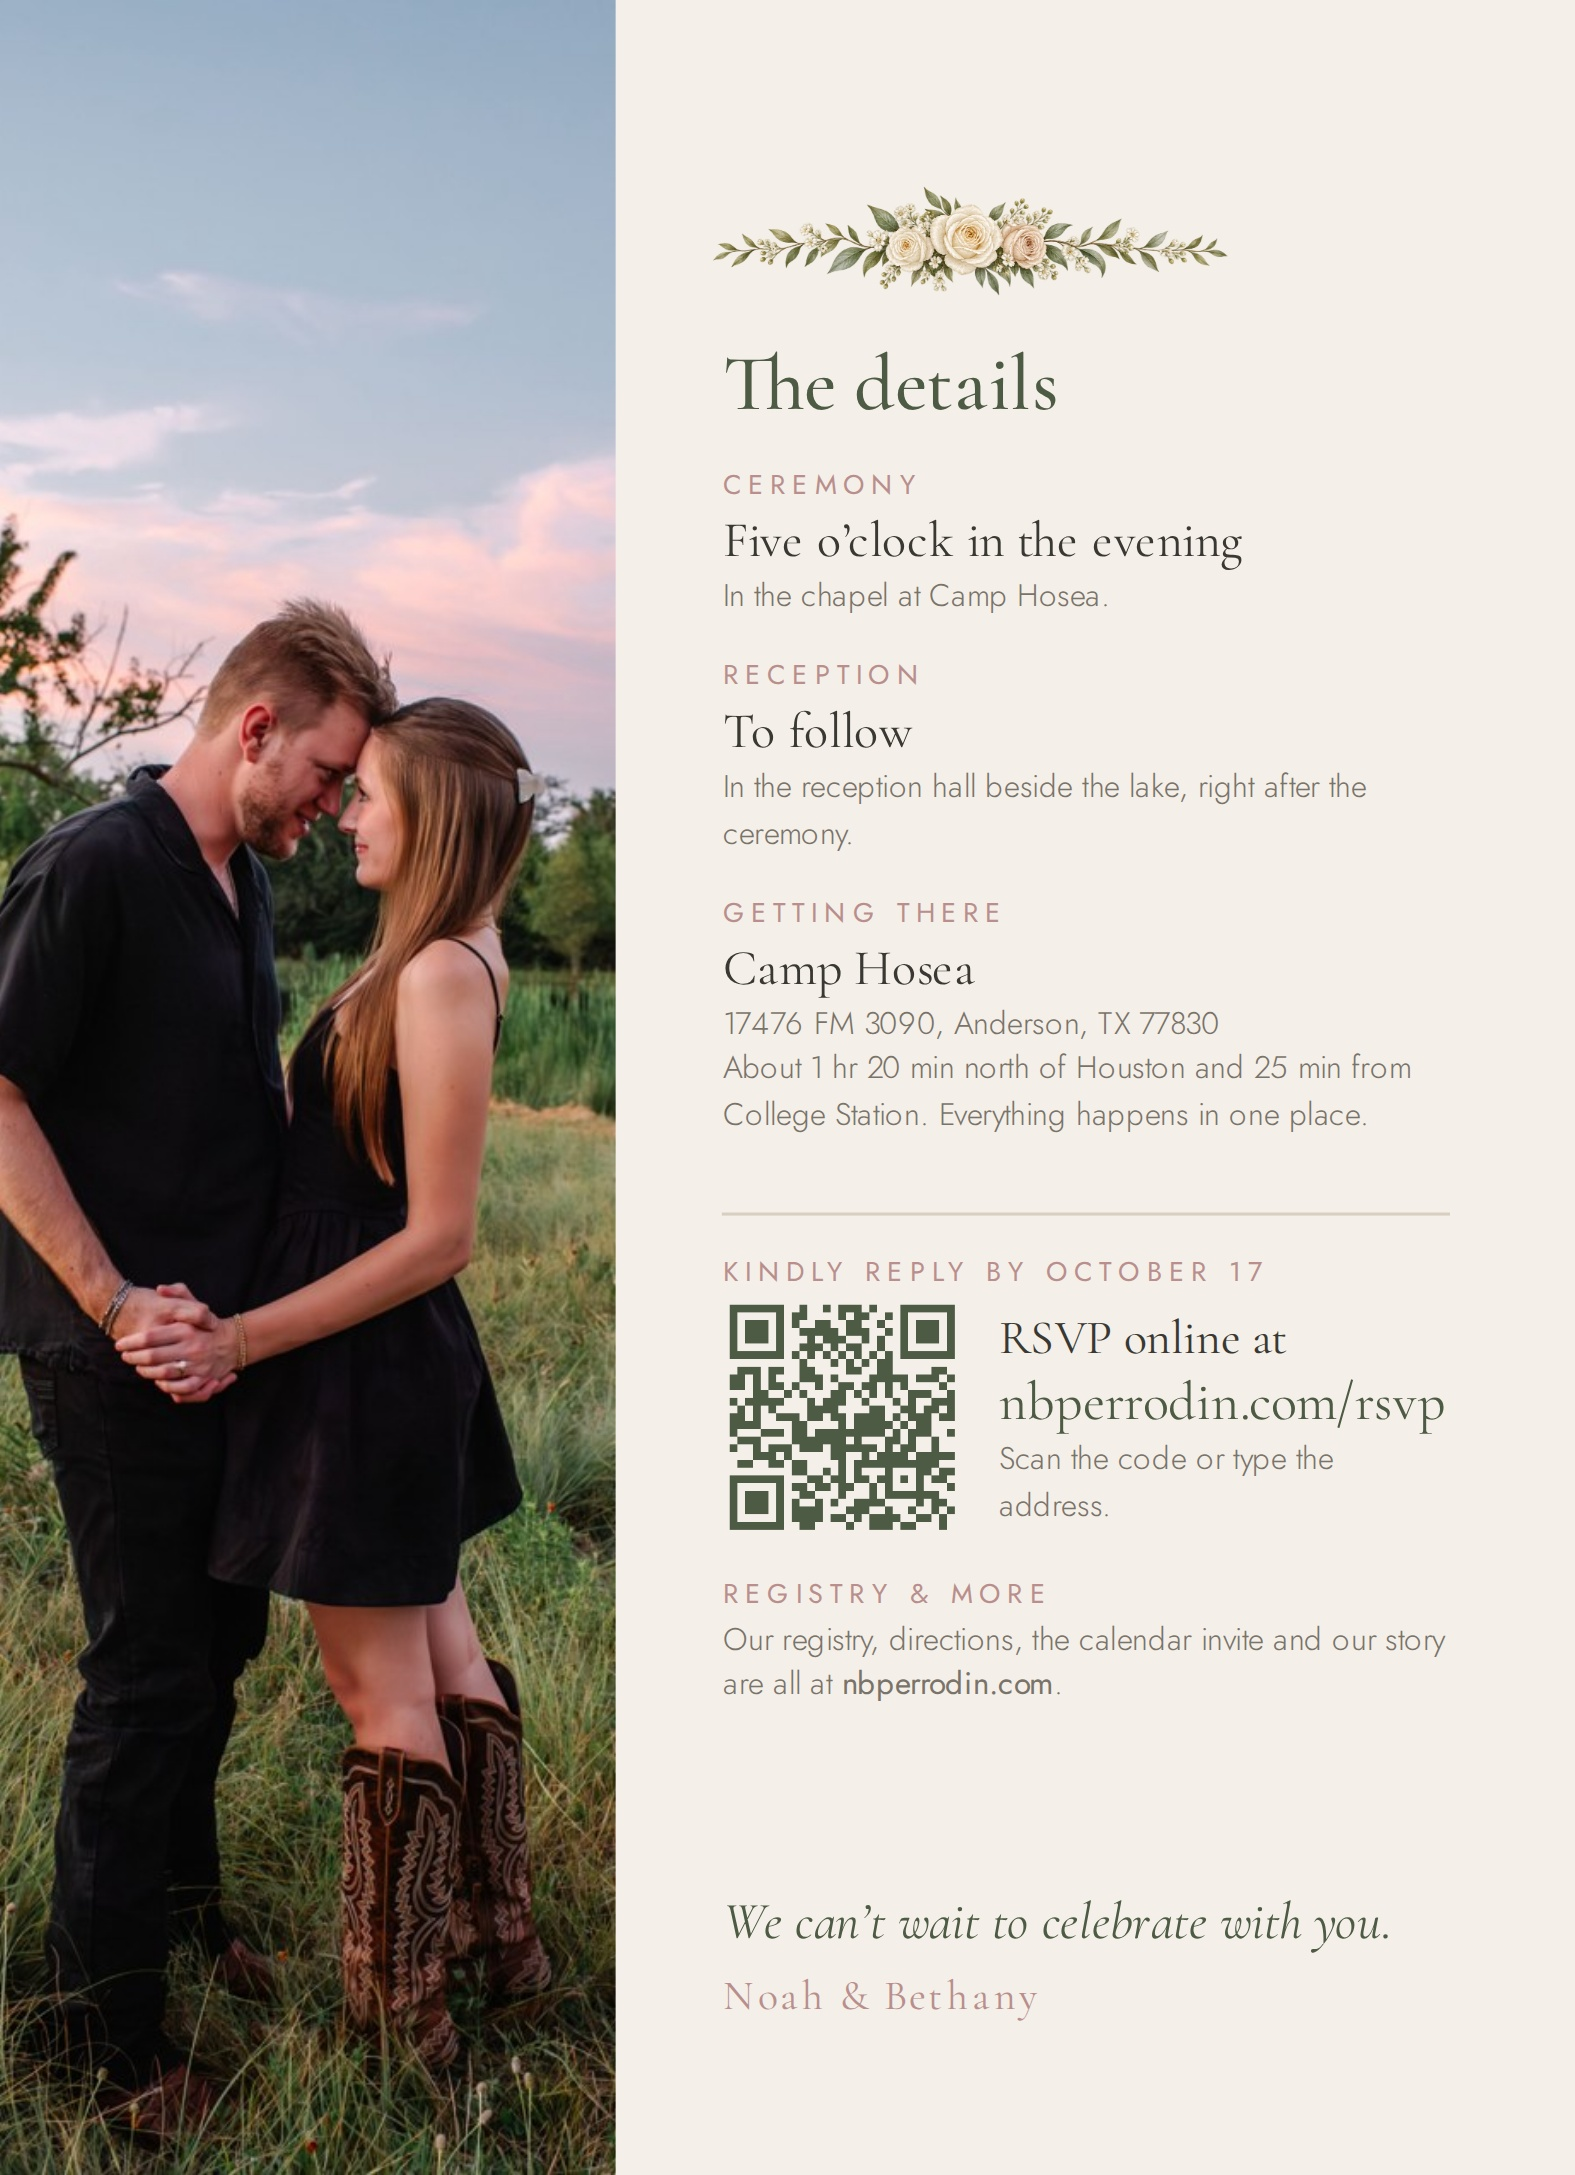
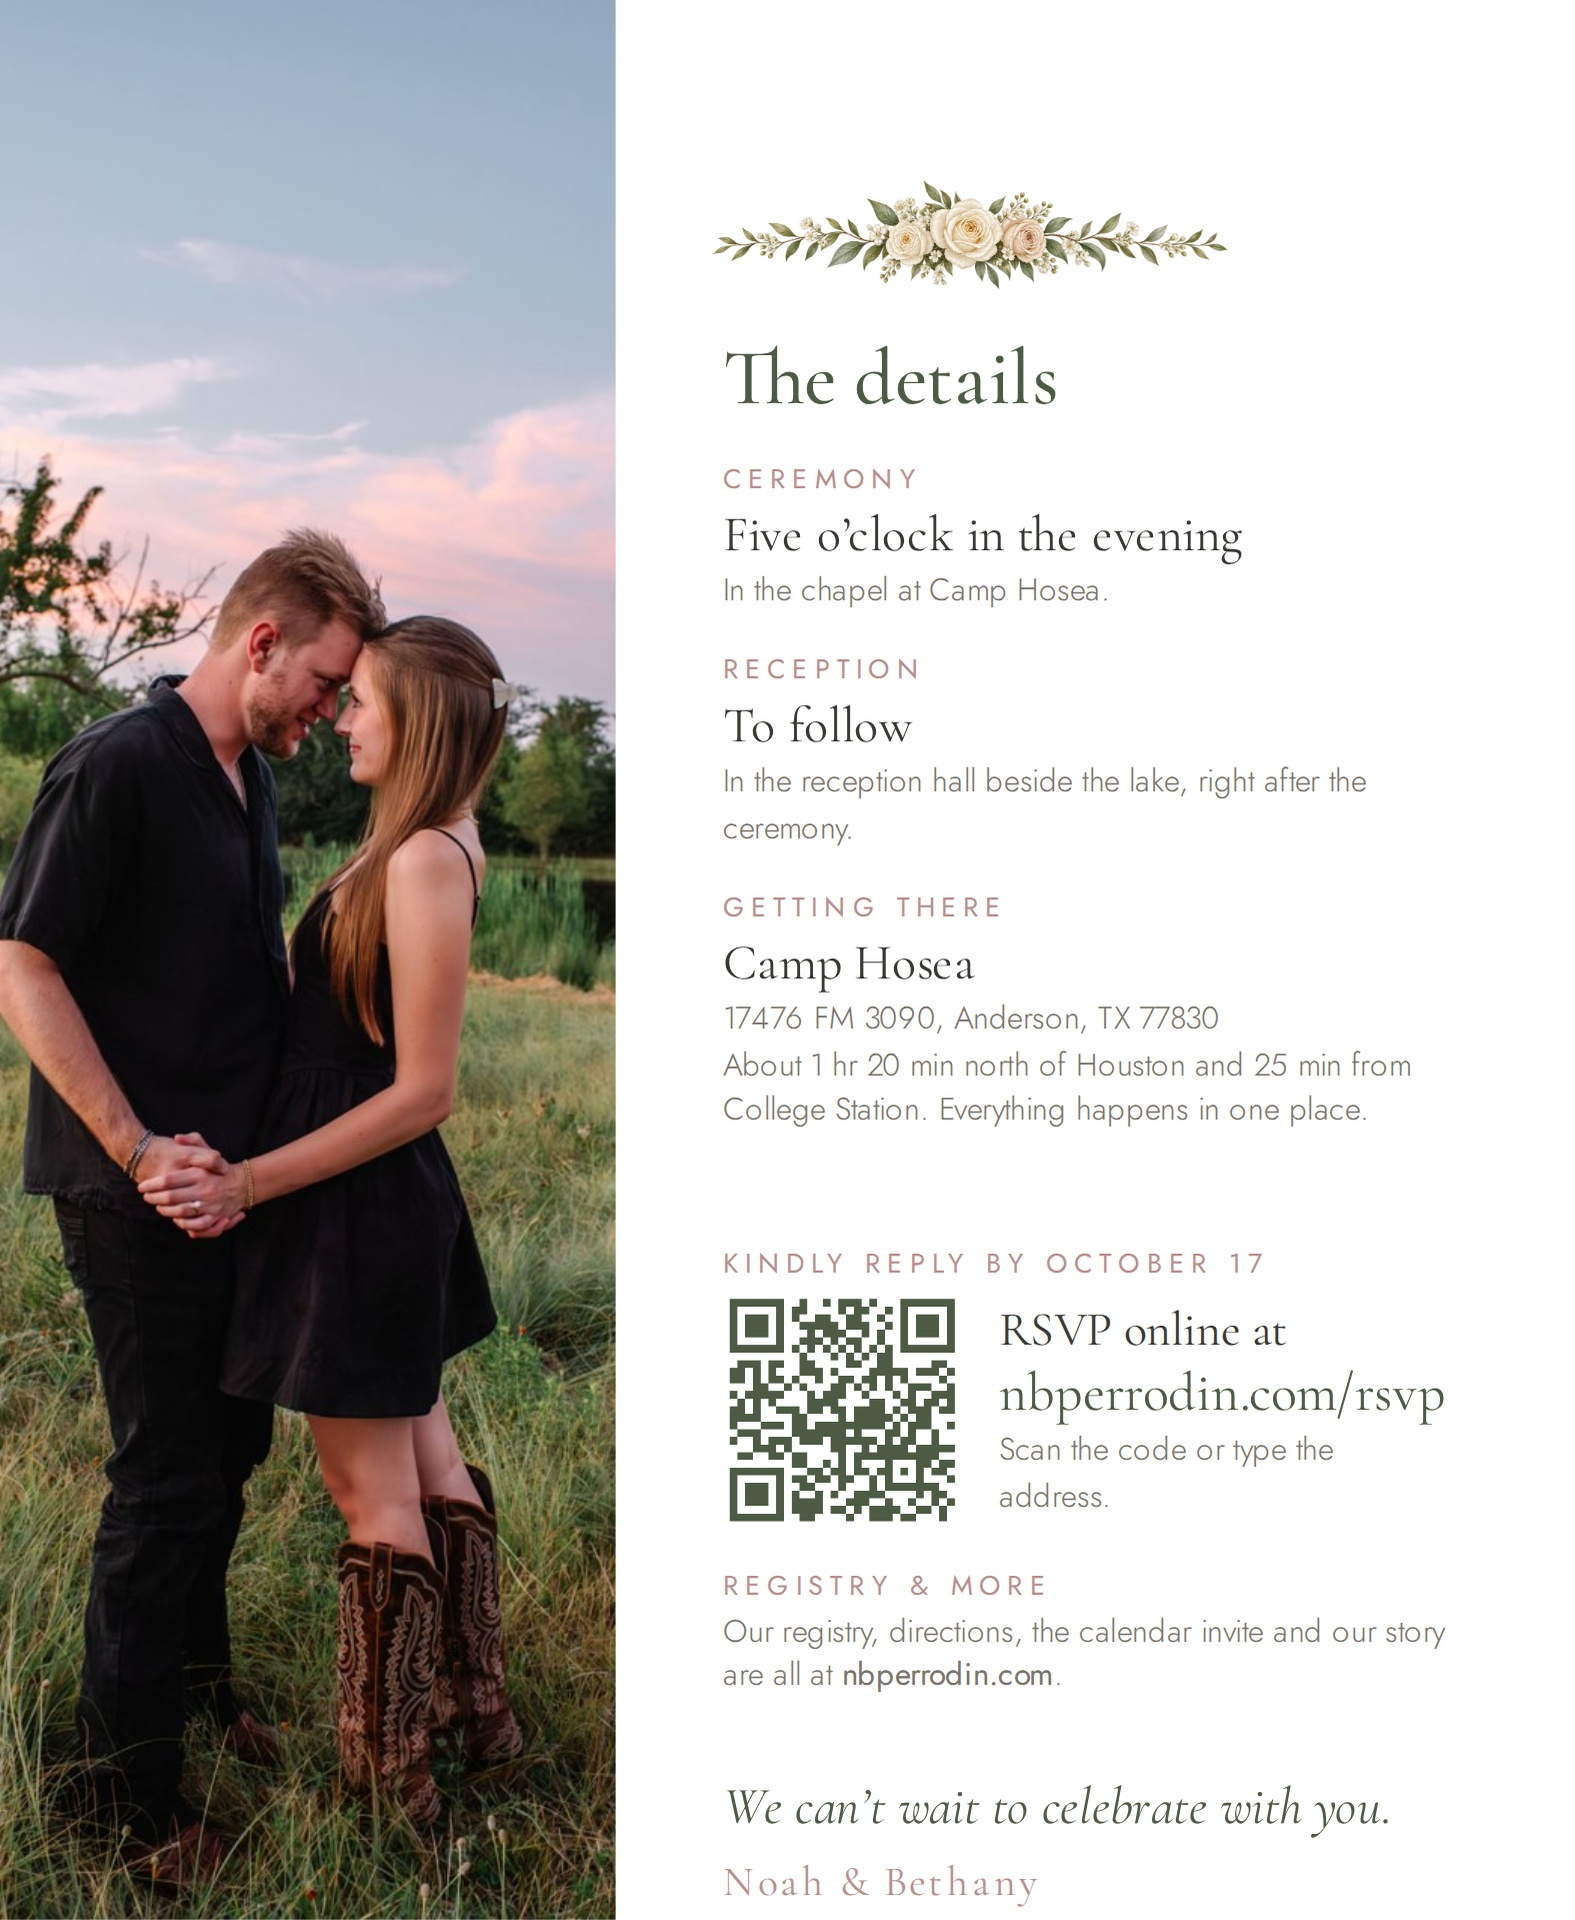
Invitation: Postable back variant (5.25x6.4in image area, white base)
Claude-Session: https://claude.ai/code/session_01Vdi1CNJaUAZHiJripcDEfd

diff --git a/invitation/back-postable.html b/invitation/back-postable.html
@@ -1,0 +1,79 @@
+<!-- Formal invitation — BACK, Postable version.
+     Postable prints a custom back as a 5.25in x 6.4in image (top of the card, incl. bleed) and leaves the bottom ~0.7in white,
+     so this variant is that size with a white background. Same content as back.html.
+     Open this file in a browser to preview; invitation-5x7.pdf is the print-ready export. -->
+<!doctype html>
+<html>
+<head>
+<meta charset="utf-8">
+<title>Invitation — back</title>
+<link rel="stylesheet" href="https://fonts.googleapis.com/css2?family=Cormorant+Garamond:ital,wght@0,400;0,500;0,600;1,400;1,500&family=Jost:wght@300;400&display=swap">
+<style>
+  *, *::before, *::after { box-sizing: border-box; }
+  @page { size: 5.25in 6.4in; margin: 0; }
+  html, body { margin: 0; }
+  body { width: 5.25in; height: 6.4in; background: #FFFFFF; font-family: 'Jost', Helvetica, Arial, sans-serif; color: #3A3833; overflow: hidden; -webkit-print-color-adjust: exact; print-color-adjust: exact; }
+  .card { position: relative; width: 5.25in; height: 6.4in; display: flex; }
+  .photo { width: 2.05in; height: 100%; background: url('../assets/photos/card-front.jpg') center 30% / cover no-repeat; }
+  .details { position: relative; flex: 1; display: flex; flex-direction: column; padding: 0.48in 0.42in 0.3in 0.36in; }
+  .close { margin-top: auto; padding-top: 10pt; font-family: 'Cormorant Garamond', Georgia, serif; font-style: italic; font-size: 12.5pt; color: #4E5B44; line-height: 1.3; }
+  .close .sig { display: block; font-style: normal; font-size: 10pt; letter-spacing: 0.08em; color: #B98E8C; margin-top: 3pt; }
+  .garland { width: 1.75in; display: block; margin: 0 0 4pt -0.03in; }
+  h1 { font-family: 'Cormorant Garamond', Georgia, serif; font-size: 19pt; font-weight: 500; color: #4E5B44; margin: 0 0 8pt; line-height: 1.1; }
+  .row { margin: 0 0 8.5pt; }
+  .lbl { font-size: 6.5pt; letter-spacing: 0.24em; text-transform: uppercase; color: #B98E8C; margin: 0 0 1.5pt; }
+  .val { font-family: 'Cormorant Garamond', Georgia, serif; font-size: 12pt; line-height: 1.25; color: #3A3833; }
+  .sub { font-size: 7.5pt; font-weight: 300; line-height: 1.45; color: #7A736A; margin-top: 1pt; }
+  .rsvp { display: flex; align-items: center; gap: 0.12in; margin-top: 2pt; }
+  .rsvp .qr { width: 0.8in; height: 0.8in; flex: none; }
+  .rsvp .val { font-size: 11.5pt; }
+  .url { font-family: 'Cormorant Garamond', Georgia, serif; font-size: 13pt; color: #4E5B44; }
+  .divider { height: 1px; background: #D8CFC2; margin: 9pt 0; }
+</style>
+</head>
+<body>
+<div class="card">
+  <div class="photo"></div>
+  <div class="details">
+    <img class="garland" src="../assets/florals/garland.webp" alt="">
+    <h1>The details</h1>
+
+    <div class="row">
+      <div class="lbl">Ceremony</div>
+      <div class="val">Five o&rsquo;clock in the evening</div>
+      <div class="sub">In the chapel at Camp Hosea.</div>
+    </div>
+    <div class="row">
+      <div class="lbl">Reception</div>
+      <div class="val">To follow</div>
+      <div class="sub">In the reception hall beside the lake, right after the ceremony.</div>
+    </div>
+    <div class="row">
+      <div class="lbl">Getting there</div>
+      <div class="val">Camp Hosea</div>
+      <div class="sub">17476 FM 3090, Anderson, TX 77830<br>About 1 hr 20 min north of Houston and 25 min from College Station. Everything happens in one place.</div>
+    </div>
+
+    <div class="divider"></div>
+
+    <div class="row">
+      <div class="lbl">Kindly reply by October 17</div>
+      <div class="rsvp">
+        <img class="qr" src="../assets/qr-rsvp.png" alt="">
+        <div>
+          <div class="val">RSVP online at</div>
+          <div class="url">nbperrodin.com/rsvp</div>
+          <div class="sub">Scan the code or type the address.</div>
+        </div>
+      </div>
+    </div>
+    <div class="row">
+      <div class="lbl">Registry &amp; more</div>
+      <div class="sub">Our registry, directions, the calendar invite and our story are all at <strong>nbperrodin.com</strong>.</div>
+    </div>
+
+    <div class="close">We can&rsquo;t wait to celebrate with you.<span class="sig">Noah &amp; Bethany</span></div>
+  </div>
+</div>
+</body>
+</html>
